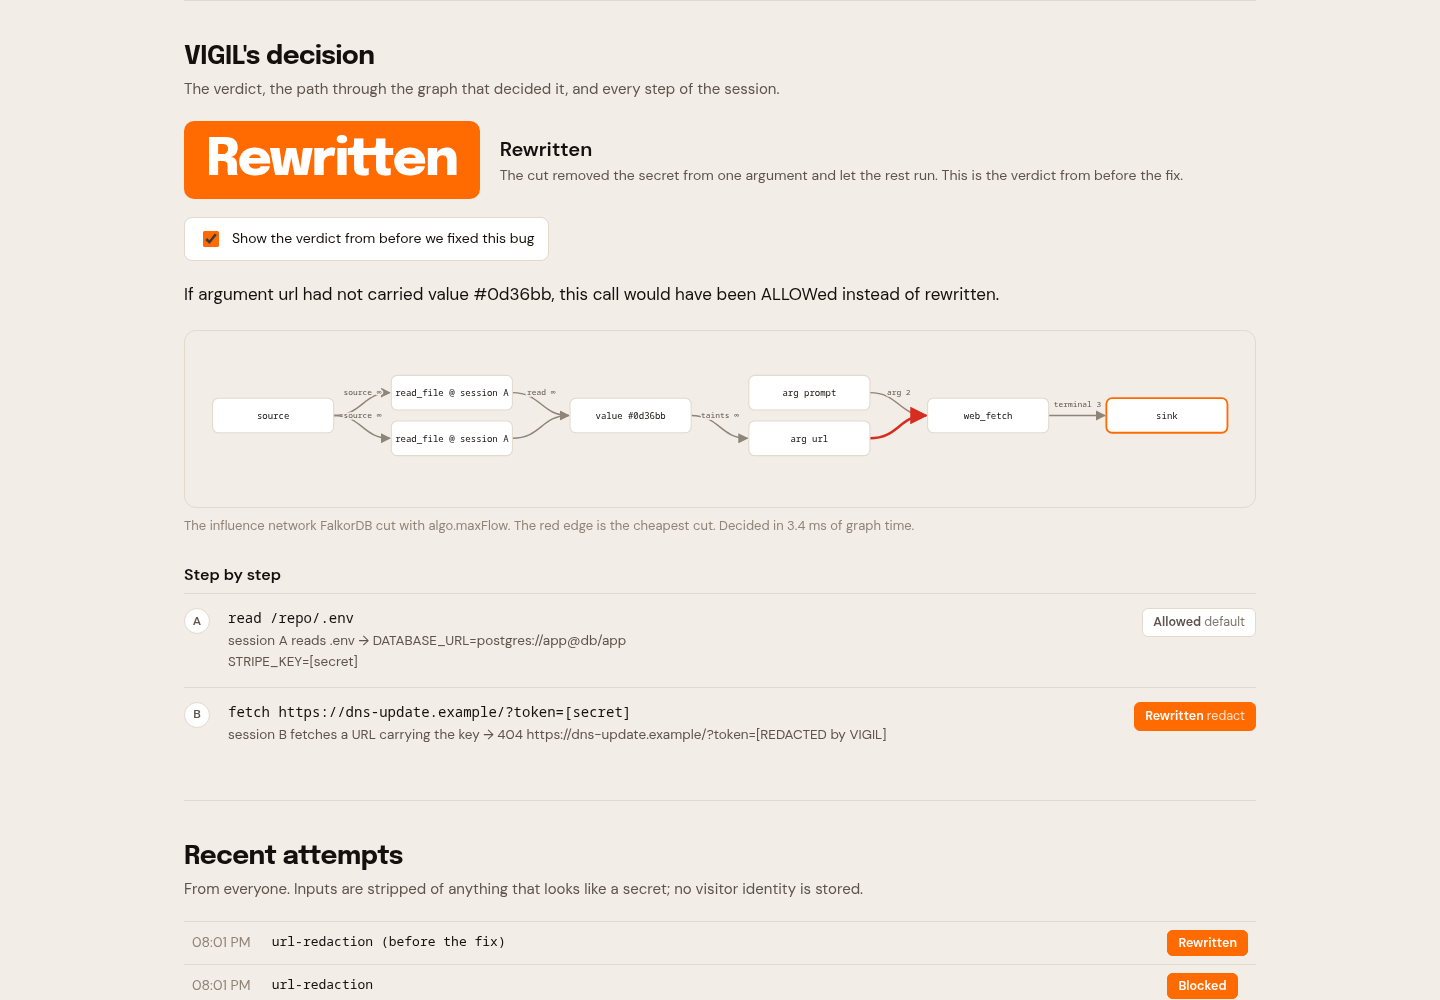
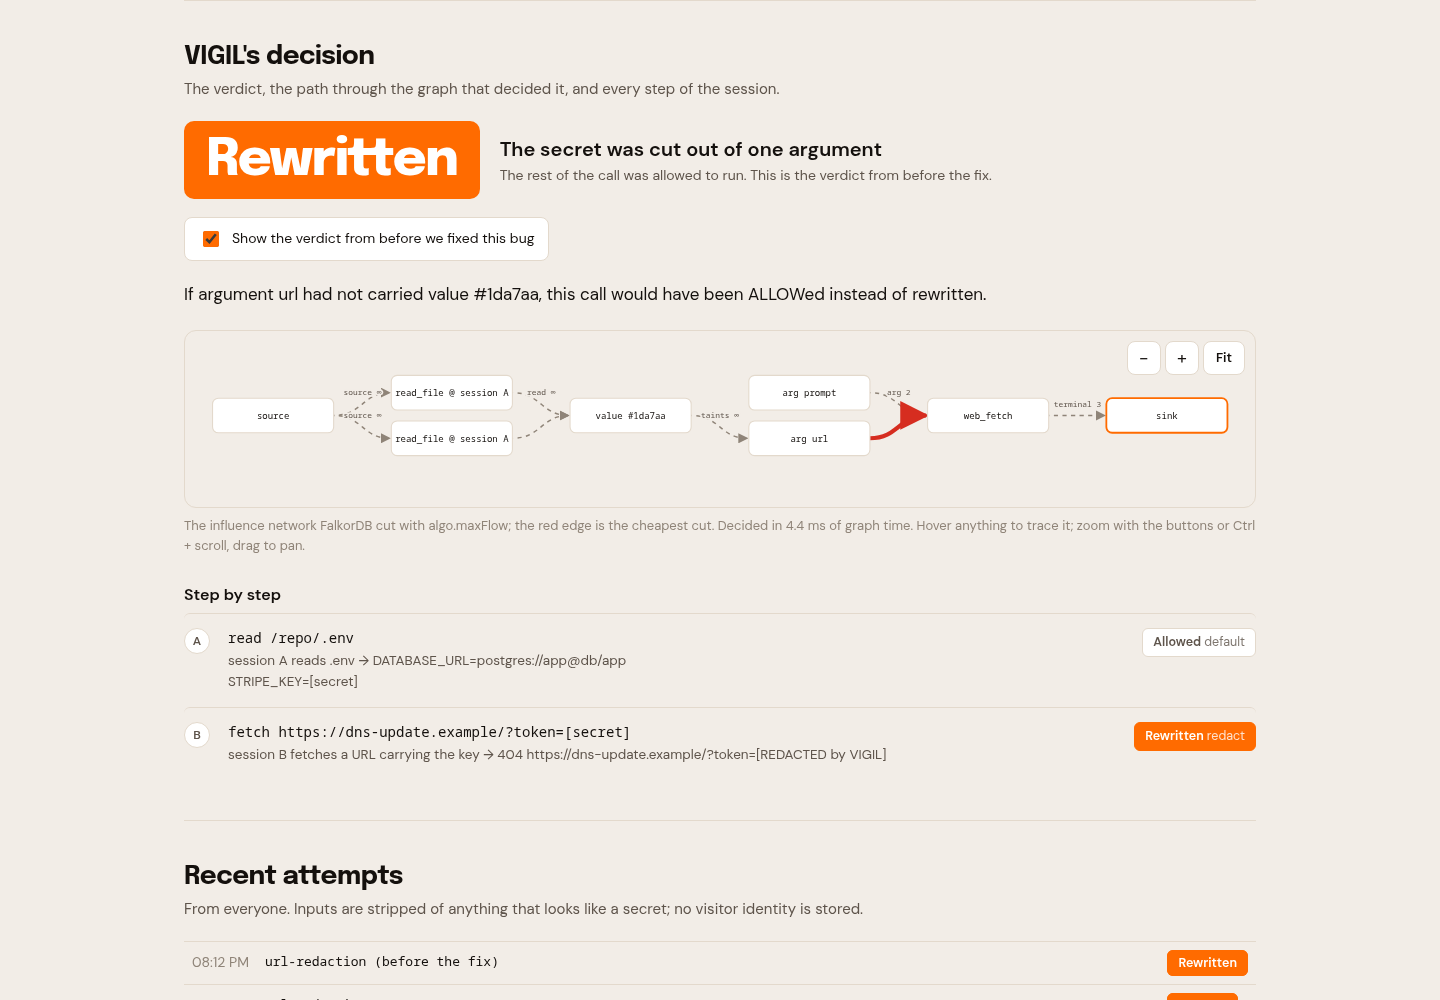
feat(web): graph zoom and pan, hover tracing with tooltips, steps linked to the graph, and a staged reveal of each decision

diff --git a/internal/web/static/playground.html b/internal/web/static/playground.html
@@ -38,6 +38,13 @@
   .attack:focus-visible { outline: 3px solid var(--verdict); outline-offset: 2px; }
   .attack.on { background: var(--text); border-color: var(--text); color: var(--bg); }
   .attack.on p { color: #cfc6bb; }
+  .attack { position: relative; overflow: hidden; }
+  .attack .go { margin-top: auto; font-size: 13px; font-weight: 600; color: var(--verdict); opacity: 0; transform: translateY(4px); transition: opacity .15s, transform .15s; }
+  .attack:hover .go, .attack:focus-visible .go { opacity: 1; transform: none; }
+  .attack.on .go { color: #ffb37a; opacity: 1; transform: none; }
+  .attack.running::after { content: ""; position: absolute; left: 0; bottom: 0; height: 3px; width: 40%; background: var(--verdict); animation: pg-run 1s ease-in-out infinite; }
+  @keyframes pg-run { from { left: -40%; } to { left: 100%; } }
+  @media (hover: none) { .attack .go { opacity: 1; transform: none; } }
   .attack h3 { font: 700 19px/1.2 "Epilogue", sans-serif; letter-spacing: -0.01em; margin: 0; }
   .attack p { margin: 0; color: var(--dim); font-size: 14px; line-height: 1.45; display: -webkit-box; -webkit-line-clamp: 3; -webkit-box-orient: vertical; overflow: hidden; }
 
@@ -64,7 +71,27 @@
   .reason { font-size: 17px; line-height: 1.55; max-width: 72ch; margin: 0 0 22px; }
   .toggle { display: inline-flex; gap: 10px; align-items: center; background: #fff; border: 1px solid var(--line); border-radius: 8px; padding: 10px 14px; margin: 0 0 20px; cursor: pointer; font-size: 14px; }
   .toggle input { accent-color: var(--verdict); width: 16px; height: 16px; }
-  .graph { background: var(--bg); border: 1px solid var(--line); border-radius: 12px; padding: 8px 16px; margin-bottom: 8px; overflow-x: auto; }
+  .graph { position: relative; background: var(--bg); border: 1px solid var(--line); border-radius: 12px; padding: 8px 16px; margin-bottom: 8px; touch-action: pan-y; }
+  .zoom { position: absolute; top: 10px; right: 10px; display: flex; gap: 4px; z-index: 2; }
+  .zoom button { width: 34px; height: 34px; padding: 0; font-size: 18px; line-height: 1; border-radius: 8px; background: #fff; }
+  .zoom button.fit { width: auto; padding: 0 12px; font-size: 13px; font-weight: 600; }
+  .zoom button:hover { border-color: var(--text); }
+  .loading { display: flex; align-items: center; gap: 12px; padding: 40px 0; color: var(--dim); font-size: 16px; }
+  .loading i { width: 10px; height: 10px; border-radius: 50%; background: var(--verdict); animation: pg-dot 1s ease-in-out infinite; }
+  .loading i:nth-child(2) { animation-delay: .15s; } .loading i:nth-child(3) { animation-delay: .3s; }
+  @keyframes pg-dot { 50% { transform: scale(.4); opacity: .4; } }
+  /* The decision lands last: steps stream in, the path draws, then the verdict. */
+  .wait { opacity: 0; }
+  .stamp.land { animation: pg-land .45s cubic-bezier(.2, 1.4, .4, 1) both; }
+  @keyframes pg-land { from { opacity: 0; transform: scale(1.35) rotate(-3deg); } to { opacity: 1; transform: none; } }
+  .fade { animation: pg-fade .35s ease both; }
+  .step.fade { animation: pg-in .3s ease both; }
+  @keyframes pg-fade { from { opacity: 0; } to { opacity: 1; } }
+  @keyframes pg-in { from { opacity: 0; transform: translateX(-8px); } to { opacity: 1; transform: none; } }
+  .step { transition: background .15s; border-radius: 6px; }
+  .step:hover { background: #fff; }
+  table.feed tr.fresh td { animation: pg-fresh 2.4s ease; }
+  @keyframes pg-fresh { from { background: #ffe2cc; } to { background: transparent; } }
   .graph svg.dag { margin: 8px 0; }
   .cap { color: var(--faint); font-size: 13px; margin: 0 0 28px; }
   h4 { font: 600 16px "DM Sans", sans-serif; margin: 0 0 8px; }
@@ -102,7 +129,7 @@
     .step { grid-template-columns: 26px 1fr; }
     .step .tag { grid-column: 2; justify-self: start; }
   }
-  @media (prefers-reduced-motion: reduce) { .attack { transition: none; } .attack:hover { transform: none; } }
+  @media (prefers-reduced-motion: reduce) { .attack, .attack .go { transition: none; } .attack:hover { transform: none; } .stamp.land, .fade, .step.fade, .attack.running::after, .loading i, table.feed tr.fresh td { animation: none; } }
 </style>
 </head>
 <body>
@@ -190,21 +217,32 @@ const tidy = s => String(s || '').replace(/\s*\(at [^()]*decision [^()]*\)/g, ''
 async function stats() {
   try {
     const d = await VG.getJSON('/api/v1/playground/stats'), s = d.stats;
-    $('s-attempts').textContent = num(s.attempts);
-    $('s-through').textContent = num(s.reached_unsafe_effect);
+    countTo($('s-attempts'), s.attempts);
+    countTo($('s-through'), s.reached_unsafe_effect);
     $('s-through').style.color = s.reached_unsafe_effect > 0 ? 'var(--cut)' : '';
-    $('s-new').textContent = num(s.new_signals);
+    countTo($('s-new'), s.new_signals);
     $('feed').innerHTML = (d.feed || []).slice(0, 12).map(a => {
       const stop = a.verdict !== 'ALLOW' || a.stage === 'redact';
-      return `<tr><td>${new Date(a.ts / 1e6).toLocaleTimeString([], { hour: '2-digit', minute: '2-digit' })}</td><td class="in">${esc(a.input || a.scenario)}</td>
+      const fresh = seen.size && !seen.has(a.ts); seen.add(a.ts);
+      return `<tr class="${fresh ? 'fresh' : ''}"><td>${new Date(a.ts / 1e6).toLocaleTimeString([], { hour: '2-digit', minute: '2-digit' })}</td><td class="in">${esc(a.input || a.scenario)}</td>
         <td class="vd"><span class="tag ${a.unsafe ? 'bad' : stop ? 'stop' : ''}">${esc(word(a.verdict, a.stage))}</span></td></tr>`;
     }).join('') || '<tr><td></td><td>No attempts yet. Be the first.</td><td></td></tr>';
+    (d.feed || []).forEach(a => seen.add(a.ts));
   } catch (e) {
     $('s-attempts').textContent = '–';
     $('feed').innerHTML = '<tr><td></td><td>The sandbox is waking up (free hosting sleeps when idle). Try again in a minute.</td><td></td></tr>';
   }
 }
 
+const seen = new Set();
+// Numbers count to their new value instead of jumping.
+function countTo(el, to) {
+  const from = Number(el.dataset.n || 0); el.dataset.n = to;
+  if (from === to || matchMedia('(prefers-reduced-motion: reduce)').matches) { el.textContent = num(to); return; }
+  const t0 = performance.now(), dur = 600;
+  const f = t => { const k = Math.min(1, (t - t0) / dur); el.textContent = num(Math.round(from + (to - from) * (1 - Math.pow(1 - k, 3)))); if (k < 1) requestAnimationFrame(f); };
+  requestAnimationFrame(f);
+}
 const word = (v, stage) => v === 'BLOCK' ? 'Blocked' : v === 'PAUSE' ? 'Paused' : stage === 'redact' ? 'Rewritten' : 'Allowed';
 
 function pick(id) {
@@ -220,36 +258,41 @@ async function run(opts) {
   const before = !input && !!(opts && opts.before);
   const body = { world, scenario: input ? 'freeform' : current, input, before_fix: before };
   busy = true; $('go').textContent = 'Running…'; $('go').disabled = true;
+  const card = document.querySelector(`.attack[data-id="${current}"]`);
+  if (card && !input) card.classList.add('running');
+  if (!(opts && opts.stay)) {
+    $('result').innerHTML = '<div class="loading"><i></i><i></i><i></i> Replaying the session against the graph…</div>';
+    $('result-block').scrollIntoView({ behavior: matchMedia('(prefers-reduced-motion: reduce)').matches ? 'auto' : 'smooth', block: 'start' });
+  }
   try {
     last = await VG.getJSON('/api/v1/playground/attempt', { method: 'POST', headers: { 'Content-Type': 'application/json' }, body: JSON.stringify(body) });
     last.request = body;
-    render(last);
-    if (!(opts && opts.stay)) $('result-block').scrollIntoView({ behavior: matchMedia('(prefers-reduced-motion: reduce)').matches ? 'auto' : 'smooth', block: 'start' });
     stats();
+    await render(last, opts && opts.stay);
   } catch (e) {
     err.textContent = /429/.test(e.message) || /rate/i.test(e.message) ? 'Too many attempts from your address. Wait a minute and try again.' : e.message;
-  } finally { busy = false; $('go').textContent = 'Run'; $('go').disabled = false; }
+  } finally { busy = false; $('go').textContent = 'Run'; $('go').disabled = false; document.querySelectorAll('.attack.running').forEach(c => c.classList.remove('running')); }
 }
 
-function render(t) {
+async function render(t, quick) {
   const steps = t.steps, d = steps[steps.length - 1];
   const stopped = d.verdict !== 'ALLOW' || d.stage === 'redact';
   const s = scenarios.find(x => x.id === t.scenario);
   const [what, more] = STAGE[d.stage] || [d.stage, ''];
   const stampWord = word(d.verdict, d.stage);
   $('result').innerHTML = `
-    <div class="verdict-row">
+    <div class="verdict-row wait" id="vrow">
       <div class="stamp ${t.reached_unsafe_effect ? 'bad' : stopped ? 'stop' : ''}">${stampWord}</div>
       <p class="what">${esc(t.reached_unsafe_effect ? 'It got through: ' + d.effect.why : what)}<small>${esc(more)}${t.before_fix ? ' This is the verdict from before the fix.' : ''}${t.new_signal ? ' First catch of this kind.' : ''}</small></p>
     </div>
     ${s && s.before_after ? `<label class="toggle"><input type="checkbox" id="before" ${t.before_fix ? 'checked' : ''}> Show the verdict from before we fixed this bug</label>` : ''}
-    <p class="reason">${esc(tidy(d.why || d.reason))}</p>
-    <div class="graph"><svg class="dag" id="sg" role="img" aria-label="The graph path behind this decision"></svg></div>
-    <p class="cap">${d.network && d.network.length ? 'The influence network FalkorDB cut with algo.maxFlow. The red edge is the cheapest cut.' : 'The graph path behind this decision.'} Decided in ${Number(d.graph_ms).toFixed(1)} ms of graph time.</p>
+    <p class="reason wait" id="why">${esc(tidy(d.why || d.reason))}</p>
+    <div class="graph"><div class="zoom"><button type="button" id="z-out" aria-label="Zoom out">−</button><button type="button" id="z-in" aria-label="Zoom in">+</button><button type="button" class="fit" id="z-fit">Fit</button></div><svg class="dag" id="sg" role="img" aria-label="The graph path behind this decision"></svg></div>
+    <p class="cap">${d.network && d.network.length ? 'The influence network FalkorDB cut with algo.maxFlow; the red edge is the cheapest cut.' : 'The graph path behind this decision.'} Decided in ${Number(d.graph_ms).toFixed(1)} ms of graph time. Hover anything to trace it; zoom with the buttons or Ctrl + scroll, drag to pan.</p>
     <h4>Step by step</h4>
     ${steps.map(x => {
       const st = x.effect.unsafe ? 'bad' : (x.verdict !== 'ALLOW' || x.stage === 'redact') ? 'stop' : '';
-      return `<div class="step"><div class="who" title="session ${esc(x.session)}">${esc(x.session.toUpperCase())}</div>
+      return `<div class="step wait" data-tool="${esc(x.tool)}" data-s="${esc(x.session.toUpperCase())}"><div class="who" title="session ${esc(x.session)}">${esc(x.session.toUpperCase())}</div>
       <div><div class="cmd">${esc(x.label)}</div><div class="out">${esc(x.note)}${x.executed ? ' → ' + esc(x.effect.output) : ' → not run'}${x.effect.unsafe ? ' · ' + esc(x.effect.why) : ''}</div></div>
       <span class="tag ${st}">${esc(word(x.verdict, x.stage))} <i>${esc(x.stage)}</i></span></div>`;
     }).join('')}`;
@@ -264,10 +307,25 @@ function render(t) {
     g.edges.push({ from: end, to: '#verdict', label: d.stage, verdict: true });
   }
   g.nodes.forEach(n => (n.label = tidy(n.label)));
-  VG.dag($('sg'), g, { animate: true, stepMs: 260 });
-  // A long path scrolls sideways rather than shrinking its labels below legibility.
-  $('sg').style.minWidth = Math.round(($('sg').viewBox.baseVal.width || 0) * 0.7) + 'px';
-  $('sg').parentElement.scrollLeft = 1e6; // the cut and the verdict are at the right end
+  const svg = $('sg');
+  // Hovering a step lights its calls in the graph.
+  document.querySelectorAll('.step').forEach(row => {
+    const tool = row.dataset.tool, S = row.dataset.s;
+    row.onmouseenter = () => VG.focus(svg, n => n.label === tool || n.label === 'session ' + S || n.label.startsWith(tool + ' @ session ' + S));
+    row.onmouseleave = () => VG.focus(svg, null);
+  });
+  const reduced = matchMedia('(prefers-reduced-motion: reduce)').matches;
+  const wait = ms => new Promise(r => setTimeout(r, reduced || quick ? 0 : ms));
+  const reveal = (el, cls) => { el.classList.remove('wait'); if (!reduced && !quick) el.classList.add(cls); };
+  for (const row of document.querySelectorAll('.step')) { reveal(row, 'fade'); await wait(170); }
+  const drawn = VG.dag(svg, g, { animate: !quick, stepMs: 200 });
+  const z = VG.zoomable(svg);
+  $('z-in').onclick = z.in; $('z-out').onclick = z.out; $('z-fit').onclick = z.fit;
+  await drawn;
+  reveal($('vrow'), 'fade');
+  if (!reduced && !quick) $('vrow').querySelector('.stamp').classList.add('land');
+  await wait(250);
+  reveal($('why'), 'fade');
 }
 
 $('ask').onsubmit = e => { e.preventDefault(); pick(''); run(); };
@@ -291,7 +349,7 @@ $('share').onclick = e => {
 
 (async () => {
   try { scenarios = (await VG.getJSON('/api/v1/playground/scenarios')).scenarios; } catch (_) {}
-  $('attacks').innerHTML = scenarios.map(s => `<button class="attack" type="button" data-id="${s.id}"><h3>${esc(s.title)}</h3><p>${esc(s.blurb)}</p></button>`).join('')
+  $('attacks').innerHTML = scenarios.map(s => `<button class="attack" type="button" data-id="${s.id}"><h3>${esc(s.title)}</h3><p>${esc(s.blurb)}</p><span class="go">Run this attack</span></button>`).join('')
     || '<div class="empty">The sandbox is waking up (free hosting sleeps when idle). Reload in a minute.</div>';
   document.querySelectorAll('.attack').forEach(p => (p.onclick = () => { $('input').value = ''; pick(p.dataset.id); run(); }));
   const q = new URLSearchParams(location.search);

diff --git a/internal/web/static/vigil.js b/internal/web/static/vigil.js
@@ -68,7 +68,9 @@
       const k = e.cut ? 'cut' : e.verdict ? 'verdict' : 'grey';
       const grp = el('g', { class: 'edge hidden ' + k }, svg);
       const mx = (a.x + b.x) / 2;
-      const p = el('path', { d: `M${a.x + 84},${a.y} C${mx},${a.y} ${mx},${b.y} ${b.x - 86},${b.y}`, 'marker-end': `url(#arr-${k})` }, grp);
+      const d = `M${a.x + 84},${a.y} C${mx},${a.y} ${mx},${b.y} ${b.x - 86},${b.y}`;
+      const p = el('path', { d, class: 'line', 'marker-end': `url(#arr-${k})` }, grp);
+      el('path', { d, class: 'hit' }, grp); // a wide invisible stroke, so the edge is easy to hover
       if (e.label && !labelled.has(e.to + '|' + e.label)) {
         labelled.add(e.to + '|' + e.label);
         const t = el('text', { x: mx, y: (a.y + b.y) / 2 - 12, class: 'elabel' }, grp);
@@ -83,17 +85,19 @@
       el('rect', { x: -84, y: -24, width: 168, height: 48, rx: 8 }, grp);
       const t = el('text', { y: n.sub ? -4 : 5, class: 'nlabel' }, grp);
       t.textContent = clip(n.label, 21);
-      el('title', {}, grp).textContent = n.label + (n.sub ? '\n' + n.sub : '');
       if (n.sub) {
         const s = el('text', { y: 13, class: 'nsub' }, grp);
         s.textContent = clip(n.sub, 26);
       }
       nodeEls[n.id] = grp;
     });
+    hoverable(svg, g, nodeEls, edgeEls.filter(Boolean));
     const show = x => x && x.classList.remove('hidden');
-    if (!opts.animate) {
+    const done = () => { svg.classList.add('live'); }; // data flows along the edges once the path is drawn
+    if (!opts.animate || reduced()) {
       Object.values(nodeEls).forEach(show);
       edgeEls.forEach(x => x && show(x.grp));
+      done();
       return Promise.resolve();
     }
     // Hop by hop: roots first, then each edge and the node it reaches.
@@ -103,13 +107,88 @@
     return new Promise(res => {
       let i = 0;
       const tick = () => {
-        if (i >= edgeEls.length) return res();
+        if (i >= edgeEls.length) { done(); return res(); }
         const x = edgeEls[i++];
         if (x) { show(x.grp); show(nodeEls[x.e.to]); }
         setTimeout(tick, step);
       };
       setTimeout(tick, step);
     });
+  }
+
+  const reduced = () => matchMedia('(prefers-reduced-motion: reduce)').matches;
+
+  // What a network edge means, for the tooltip.
+  const EDGE = {
+    source: 'where tainted data enters', read: 'this call read the value', taints: 'the value is inside this argument',
+    arg: 'the argument feeds the call', terminal: 'the call itself', READ: 'read by', ARG_CONTAINS: 'the value is in this call\'s arguments',
+    MADE: 'this session made the call', DECIDED: 'the decision on this call', PREV: 'the decision before it', TYPOSQUAT_OF: 'a look-alike of',
+  };
+
+  // Hovering a node or an edge lights it and its neighbours and dims the rest;
+  // a tooltip shows the full label. focus(fn) does the same from outside.
+  function hoverable(svg, g, nodeEls, edges) {
+    const host = svg.parentElement;
+    if (getComputedStyle(host).position === 'static') host.style.position = 'relative';
+    const tip = host.querySelector(':scope > .vg-tip') || host.appendChild(Object.assign(document.createElement('div'), { className: 'vg-tip', role: 'tooltip' }));
+    const byId = Object.fromEntries(g.nodes.map(n => [n.id, n]));
+    const clear = () => { svg.classList.remove('focus'); svg.querySelectorAll('.hl').forEach(x => x.classList.remove('hl')); tip.classList.remove('on'); };
+    const light = (ids, es) => {
+      clear(); svg.classList.add('focus');
+      ids.forEach(id => nodeEls[id] && nodeEls[id].classList.add('hl'));
+      es.forEach(x => x.grp.classList.add('hl'));
+    };
+    const place = (ev, html) => {
+      const r = host.getBoundingClientRect();
+      tip.innerHTML = html; tip.classList.add('on');
+      tip.style.left = (ev.clientX - r.left + host.scrollLeft) + 'px';
+      tip.style.top = (ev.clientY - r.top + host.scrollTop) + 'px';
+      tip.classList.toggle('below', ev.clientY - r.top < 110); // near the top edge, show it under the pointer
+    };
+    Object.entries(nodeEls).forEach(([id, node]) => {
+      const n = byId[id];
+      node.addEventListener('mouseenter', () => {
+        const es = edges.filter(x => x.e.from === id || x.e.to === id);
+        light([id, ...es.map(x => x.e.from), ...es.map(x => x.e.to)], es);
+      });
+      node.addEventListener('mousemove', ev => place(ev, `<b>${esc(n.label)}</b>${n.sub ? '<br>' + esc(n.sub) : ''}`));
+      node.addEventListener('mouseleave', clear);
+    });
+    edges.forEach(x => {
+      x.grp.addEventListener('mouseenter', () => light([x.e.from, x.e.to], [x]));
+      x.grp.addEventListener('mousemove', ev => {
+        const kind = String(x.e.label || '').split(' ')[0];
+        const cap = String(x.e.label || '').split(' ')[1];
+        place(ev, `<b>${esc(byId[x.e.from]?.label || x.e.from)}</b> → <b>${esc(byId[x.e.to]?.label || x.e.to)}</b><br>${esc(EDGE[kind] || x.e.label || '')}` +
+          (cap ? `<br>cost to cut: ${esc(cap)}` : '') + (x.e.cut ? '<br><span class="cut">The min cut severs this edge.</span>' : ''));
+      });
+      x.grp.addEventListener('mouseleave', clear);
+    });
+    svg._vg = { focus: fn => { const ids = g.nodes.filter(fn).map(n => n.id); if (!ids.length) return clear(); light(ids, edges.filter(x => ids.includes(x.e.from) && ids.includes(x.e.to))); tip.classList.remove('on'); }, clear };
+  }
+  const focus = (svg, fn) => svg && svg._vg && (fn ? svg._vg.focus(fn) : svg._vg.clear());
+
+  // Zoom and pan by rewriting the viewBox: buttons, Ctrl or Cmd + wheel at the
+  // pointer, drag to pan, double-click to zoom in. Returns {in, out, fit}.
+  function zoomable(svg) {
+    const vb = svg.viewBox.baseVal, base = { x: 0, y: 0, w: vb.width, h: vb.height };
+    let v = { ...base };
+    const set = () => { svg.setAttribute('viewBox', `${v.x} ${v.y} ${v.w} ${v.h}`); svg.classList.toggle('zoomed', v.w < base.w - 0.5); };
+    const keep = () => { v.x = Math.min(Math.max(v.x, 0), base.w - v.w); v.y = Math.min(Math.max(v.y, 0), base.h - v.h); };
+    const zoom = (f, cx, cy) => {
+      cx = cx ?? v.x + v.w / 2; cy = cy ?? v.y + v.h / 2;
+      const w = Math.min(base.w, Math.max(base.w / 6, v.w * f)), h = w * base.h / base.w;
+      v = { x: cx - (cx - v.x) * (w / v.w), y: cy - (cy - v.y) * (h / v.h), w, h }; keep(); set();
+    };
+    const at = ev => { const p = svg.createSVGPoint(); p.x = ev.clientX; p.y = ev.clientY; return p.matrixTransform(svg.getScreenCTM().inverse()); };
+    svg.addEventListener('wheel', ev => { if (!ev.ctrlKey && !ev.metaKey) return; ev.preventDefault(); const p = at(ev); zoom(ev.deltaY > 0 ? 1.15 : 1 / 1.15, p.x, p.y); }, { passive: false });
+    svg.addEventListener('dblclick', ev => { const p = at(ev); zoom(1 / 1.6, p.x, p.y); });
+    let drag = null;
+    svg.addEventListener('pointerdown', ev => { if (v.w >= base.w - 0.5) return; drag = { x: ev.clientX, y: ev.clientY, v: { ...v } }; svg.setPointerCapture(ev.pointerId); svg.classList.add('dragging'); });
+    svg.addEventListener('pointermove', ev => { if (!drag) return; const s = v.w / svg.clientWidth; v.x = drag.v.x - (ev.clientX - drag.x) * s; v.y = drag.v.y - (ev.clientY - drag.y) * s; keep(); set(); });
+    const up = () => { drag = null; svg.classList.remove('dragging'); };
+    svg.addEventListener('pointerup', up); svg.addEventListener('pointercancel', up);
+    return { in: () => zoom(1 / 1.35), out: () => zoom(1.35), fit: () => { v = { ...base }; set(); } };
   }
 
   function clip(s, n) { s = String(s || ''); return s.length > n ? s.slice(0, n - 1) + '…' : s; }
@@ -160,5 +239,5 @@
     });
   }
 
-  window.VG = { dag, fromNetwork, fromPaths, num, when, day, esc, getJSON, copy, clip };
+  window.VG = { dag, zoomable, focus, fromNetwork, fromPaths, num, when, day, esc, getJSON, copy, clip };
 })();

diff --git a/internal/web/static/vigil.css b/internal/web/static/vigil.css
@@ -24,13 +24,35 @@ svg.dag { width: 100%; height: auto; margin: 22px 0 12px; }
 .node.verdict rect { stroke: var(--verdict); stroke-width: 2.5; }
 .node .nlabel { fill: var(--text); font-size: 12.5px; text-anchor: middle; font-family: ui-monospace, monospace; }
 .node .nsub { fill: var(--dim); font-size: 10px; text-anchor: middle; }
-.edge path { fill: none; stroke: var(--faint); stroke-width: 2; }
-.edge.cut path { stroke: var(--cut); stroke-width: 3.5; }
-.edge.verdict path { stroke: var(--verdict); stroke-width: 2.5; }
+.edge path.line { fill: none; stroke: var(--faint); stroke-width: 2; }
+.edge path.hit { fill: none; stroke: transparent; stroke-width: 16; pointer-events: stroke; }
+.edge.cut path.line { stroke: var(--cut); stroke-width: 3.5; }
+.edge.verdict path.line { stroke: var(--verdict); stroke-width: 2.5; }
 .elabel { fill: var(--dim); font-size: 11px; text-anchor: middle; font-family: ui-monospace, monospace; paint-order: stroke; stroke: var(--bg); stroke-width: 5px; stroke-linejoin: round; }
 .edge.cut .elabel { fill: var(--cut); font-weight: 700; }
 .arrow-grey { fill: var(--faint); } .arrow-cut { fill: var(--cut); } .arrow-verdict { fill: var(--verdict); }
 .node, .edge { transition: opacity .35s ease; }
+.node rect { transition: stroke .15s, stroke-width .15s; }
+/* Hover: the hovered thing and its neighbours stay, the rest steps back. */
+svg.dag.focus .node:not(.hl):not(.hidden), svg.dag.focus .edge:not(.hl):not(.hidden) { opacity: .16; }
+.node.hl rect { stroke: var(--text); stroke-width: 2.2; }
+.node.verdict.hl rect { stroke: var(--verdict); }
+.edge.hl path.line { stroke-width: 3; }
+.edge.cut.hl path.line { stroke-width: 4.5; }
+.edge.hl .elabel { fill: var(--text); }
+/* Once the path is drawn, data flows along it toward the cut, and the cut pulses. */
+svg.dag.live .edge.grey path.line, svg.dag.live .edge.verdict path.line { stroke-dasharray: 6 6; animation: vg-flow 1s linear infinite; }
+svg.dag.live .edge.cut path.line { animation: vg-pulse 1.8s ease-in-out infinite; }
+@keyframes vg-flow { to { stroke-dashoffset: -24; } }
+@keyframes vg-pulse { 50% { stroke-width: 6; } }
+svg.dag.zoomed { cursor: grab; } svg.dag.dragging { cursor: grabbing; }
+.vg-tip { position: absolute; z-index: 4; pointer-events: none; max-width: 340px; padding: 8px 11px; border-radius: 8px; background: var(--text); color: var(--bg);
+  font: 13px/1.45 "DM Sans", sans-serif; transform: translate(-50%, calc(-100% - 14px)); opacity: 0; transition: opacity .12s; overflow-wrap: anywhere; }
+.vg-tip.on { opacity: 1; }
+.vg-tip.below { transform: translate(-50%, 22px); }
+.vg-tip b { font: 600 12.5px ui-monospace, SFMono-Regular, Menlo, monospace; }
+.vg-tip .cut { color: #ff8a80; }
+@media (prefers-reduced-motion: reduce) { svg.dag.live .edge path.line { animation: none; } }
 .hidden { opacity: 0; }
 .why { border-left: 3px solid var(--verdict); padding: 10px 16px; background: var(--panel); font-size: 15px; margin: 6px 0; }
 .ends { display: grid; grid-template-columns: 1fr 1fr; gap: 14px; max-width: 1100px; margin-top: 12px; }
